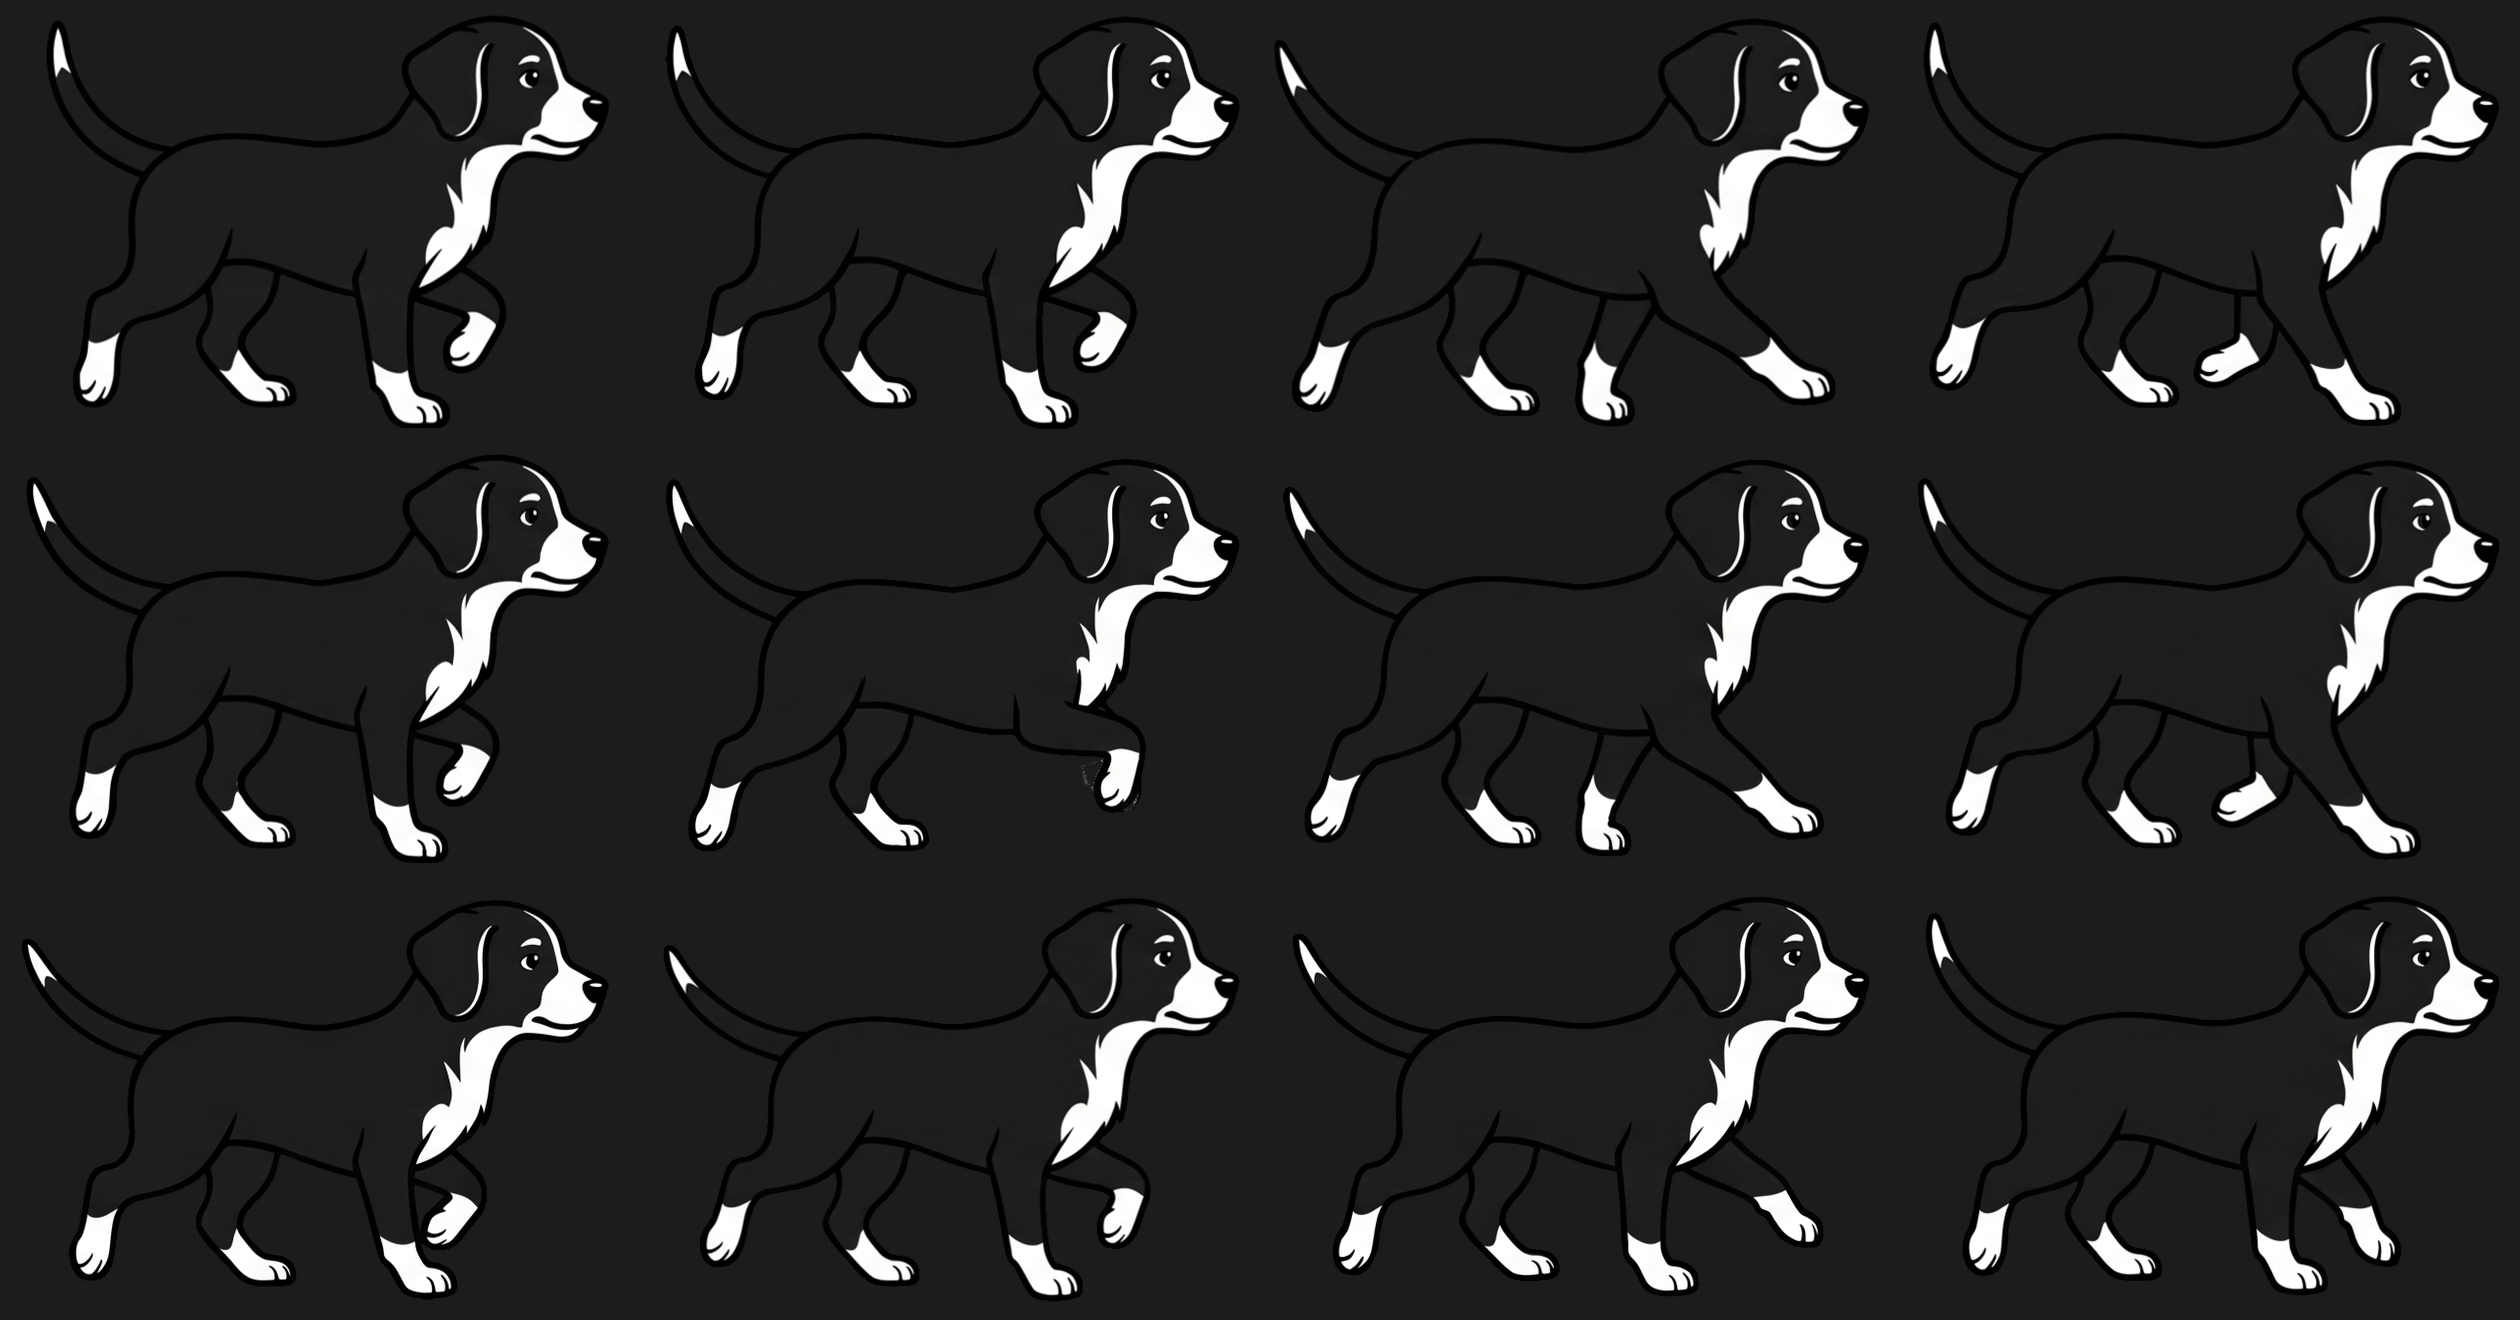
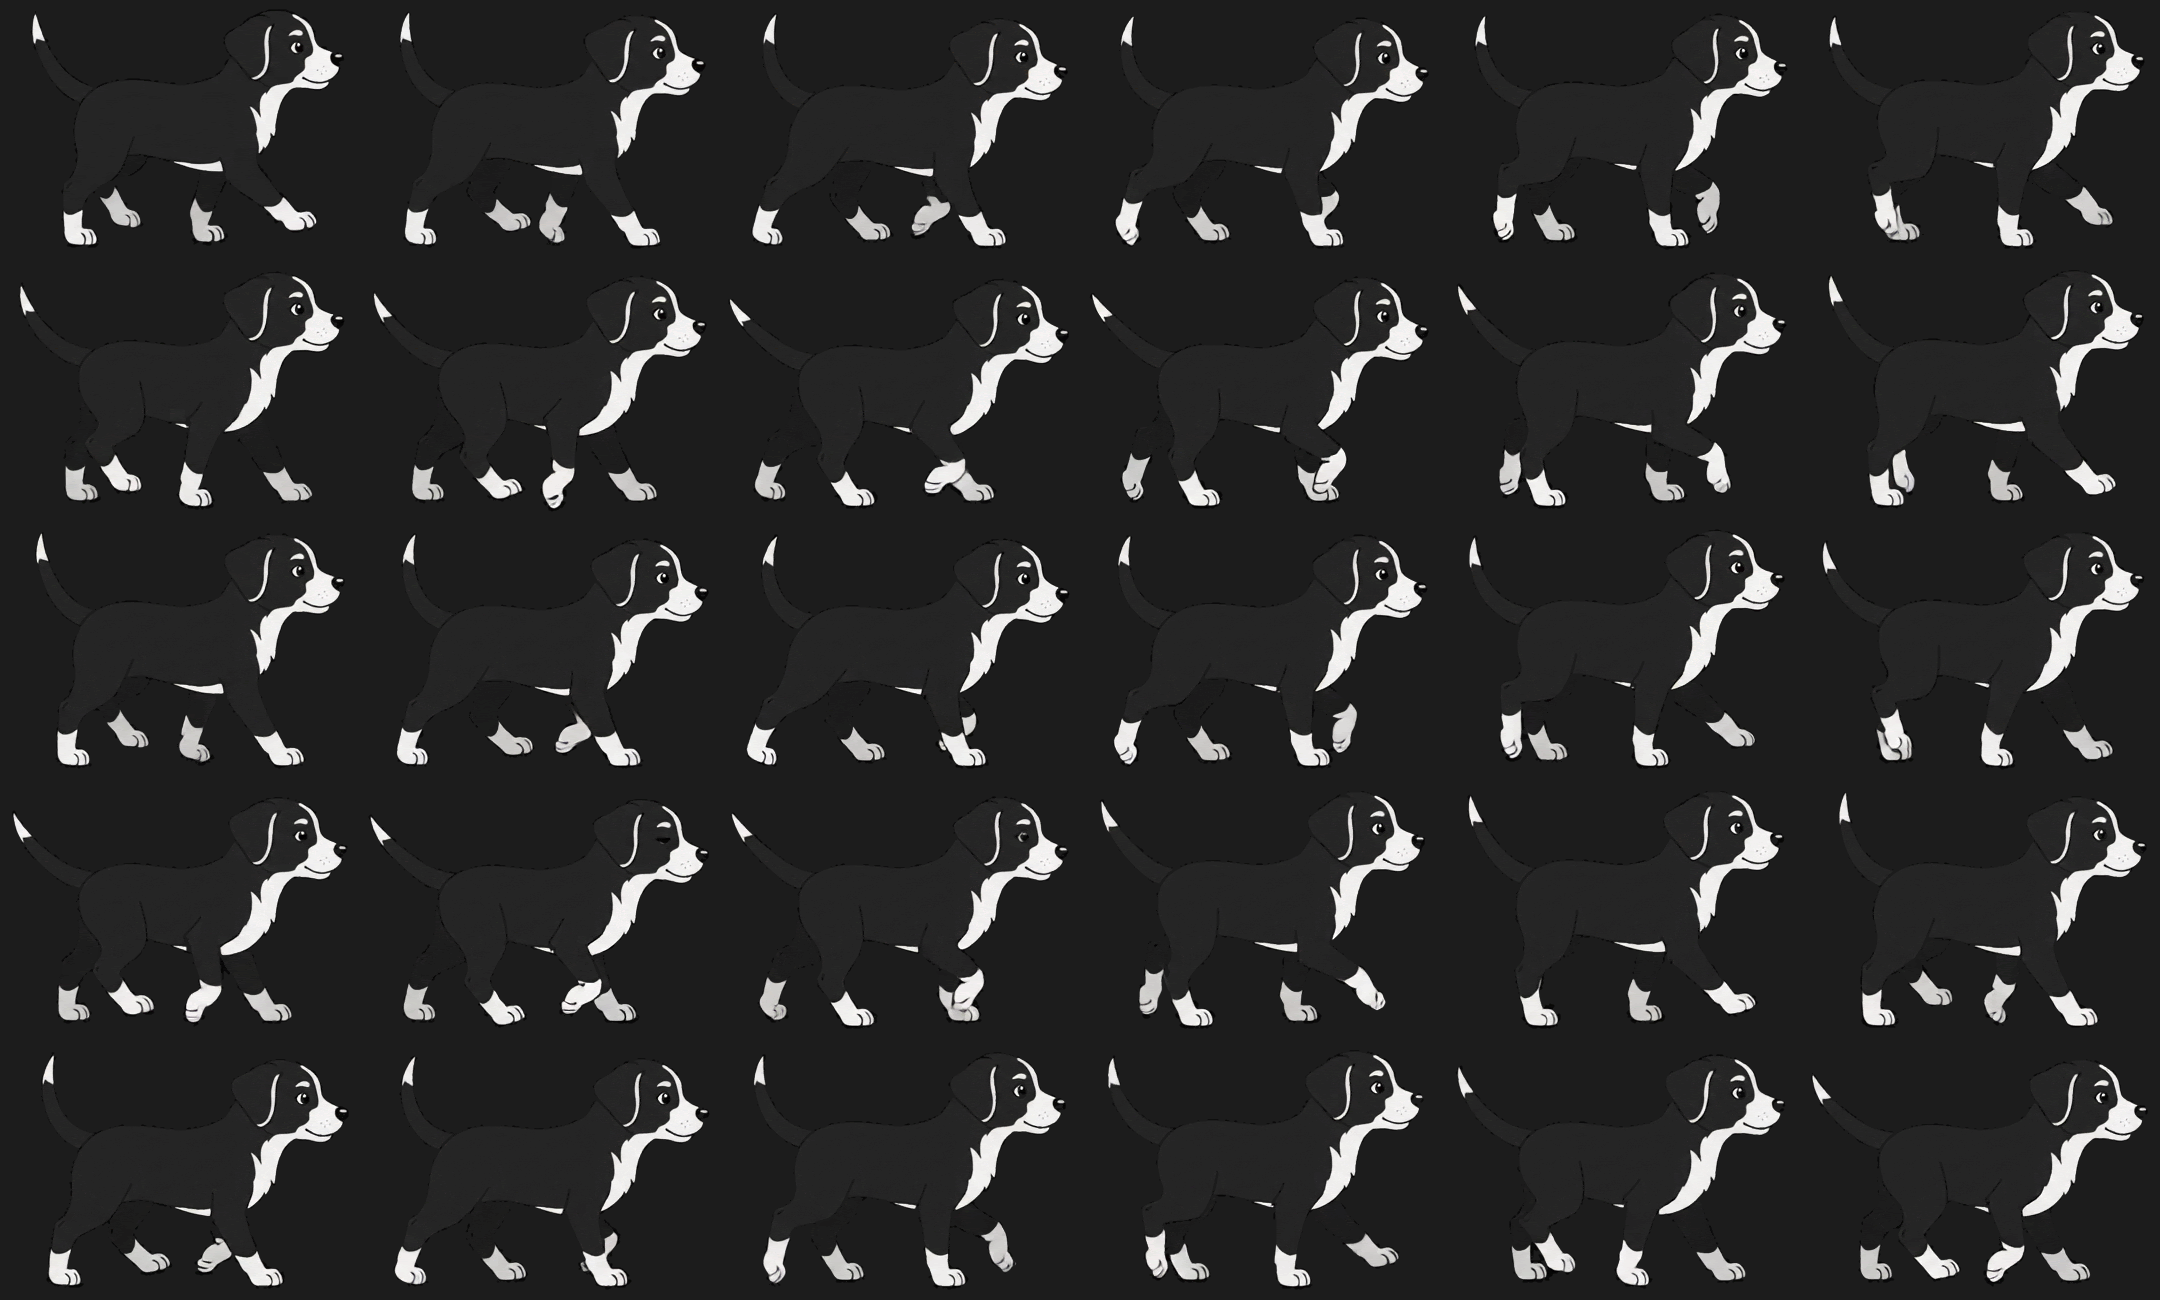
feat: animate Doly using 30-frame GIF walk sequence driven by GSAP

diff --git a/src/scripts/character/DolyChoreography.ts b/src/scripts/character/DolyChoreography.ts
@@ -1,3 +1,4 @@
+import { gsap } from 'gsap';
 import type { CharacterFrameState, SpriteManifest } from './CharacterAnimator';
 import { BEATS, easeInOut, inRange, lerp, norm } from '../timeline/beats';
 
@@ -21,12 +22,12 @@ export interface ChoreographyOutput {
 type Mapping = 'forward' | 'mirror';
 
 /**
- * Traduce el progreso del scroll (0–1) en el estado de Doly usando los 12 frames SVG:
- *  - Ciclo de caminata: frames 0..11 sincronizados con el odómetro de distancia recorrida.
- *  - Llegada al libro: Doly apoya sus patas (frame 11), sube al libro con una ligera flexión
- *    y hace cross-fade limpio hacia la ilustración original recostada.
- *  - Salida y loop: al levantarse retoma el ciclo de 12 frames hasta salir por la derecha,
- *    y si el usuario hace scroll de regreso hacia arriba vuelve a entrar desde la izquierda.
+ * Controlador GSAP de la caminata de Doly (30 frames extraídos del GIF):
+ *  - Usa `gsap.to` para interpolar suavemente el cabezal de reproducción (`playhead`)
+ *    a través de los 30 frames del GIF cada vez que el usuario hace scroll, evitando
+ *    saltos bruscos entre ticks de la rueda del mouse.
+ *  - Usa `gsap.to` para animar el giro horizontal (`facing`) y la transición hacia
+ *    y desde el libro abierto en el centro.
  */
 export class DolyChoreography {
   private mapping: Mapping = 'forward';
@@ -34,12 +35,20 @@ export class DolyChoreography {
   private lastP = 0;
   private dir: 1 | -1 = 1;
   private lastX: number | null = null;
-  private odometer = 0;
+  private targetOdometer = 0;
+  private readonly anim = {
+    odometer: 0,
+  };
+  private currentP = 0;
+  private onAsyncUpdate?: (out: ChoreographyOutput) => void;
 
   constructor(
     private readonly manifest: SpriteManifest,
     private metrics: StageMetrics,
-  ) {}
+    onAsyncUpdate?: (out: ChoreographyOutput) => void,
+  ) {
+    this.onAsyncUpdate = onAsyncUpdate;
+  }
 
   setMetrics(m: StageMetrics) {
     this.metrics = m;
@@ -47,10 +56,10 @@ export class DolyChoreography {
   }
 
   private get offL() {
-    return -320 * this.metrics.k - 24;
+    return -195 * this.metrics.k - 24;
   }
   private get offR() {
-    return this.metrics.width + 320 * this.metrics.k + 24;
+    return this.metrics.width + 195 * this.metrics.k + 24;
   }
 
   private forwardX(p: number) {
@@ -63,7 +72,9 @@ export class DolyChoreography {
   }
 
   update(p: number): ChoreographyOutput {
-    const { manifest: m, metrics } = this;
+    const { metrics } = this;
+    this.currentP = p;
+
     if (p > this.lastP + 1e-6) this.dir = 1;
     else if (p < this.lastP - 1e-6) this.dir = -1;
     this.lastP = p;
@@ -82,18 +93,38 @@ export class DolyChoreography {
     if (this.lastX !== null) {
       const dx = x - this.lastX;
       if (Math.abs(dx) < metrics.width * 0.5) {
-        this.odometer += Math.abs(dx) / metrics.k;
-        if (walking && !offscreen && Math.abs(dx) > 0.05) this.facing = dx > 0 ? 1 : -1;
+        this.targetOdometer += Math.abs(dx) / metrics.k;
+        if (walking && !offscreen && Math.abs(dx) > 0.05) {
+          this.facing = dx > 0 ? 1 : -1;
+        }
       }
     }
     this.lastX = x;
 
-    const walkStart = m.ranges.walk.start;
-    const walkCount = m.ranges.walk.count; // 12 frames (d-c-01 .. d-c-12)
-    const stanceFrame = walkStart + walkCount - 1; // d-c-12 (pose estable de 4 apoyos)
-    const hop = 34 * metrics.k;
+    // GSAP interpola el avance por los 30 frames del GIF con inercia suave
+    gsap.to(this.anim, {
+      odometer: this.targetOdometer,
+      duration: 0.42,
+      ease: 'power2.out',
+      overwrite: true,
+      onUpdate: () => {
+        if (this.onAsyncUpdate) {
+          this.onAsyncUpdate(this.computeState(this.currentP, x));
+        }
+      },
+    });
 
-    let frame = walkStart + (Math.floor((this.odometer / m.strideUnits) * walkCount) % walkCount);
+    return this.computeState(p, x);
+  }
+
+  private computeState(p: number, x: number): ChoreographyOutput {
+    const { manifest: m, metrics } = this;
+    const walkStart = m.ranges.walk.start;
+    const walkCount = m.ranges.walk.count; // 30 frames del GIF
+    const stanceFrame = m.ranges.settle.start; // frame con las 4 patas apoyadas
+    const hop = 28 * metrics.k;
+
+    let frame = walkStart + (Math.floor((this.anim.odometer / m.strideUnits) * walkCount) % walkCount);
     let groundY = metrics.groundY;
     let alpha = 1;
     let restMix = 0;

diff --git a/src/scripts/timeline/MasterTimeline.ts b/src/scripts/timeline/MasterTimeline.ts
@@ -86,7 +86,9 @@ export class MasterTimeline {
     };
 
     const initialMetrics = computeMetrics();
-    this.choreography = new DolyChoreography(manifest, initialMetrics);
+    this.choreography = new DolyChoreography(manifest, initialMetrics, ({ dog }) => {
+      this.renderer?.render(dog);
+    });
 
     // Prepara las huellas del camino
     const prints: PrintItem[] = Array.from(this.stageEl.querySelectorAll<HTMLElement>('[data-print]')).map((el) => ({
